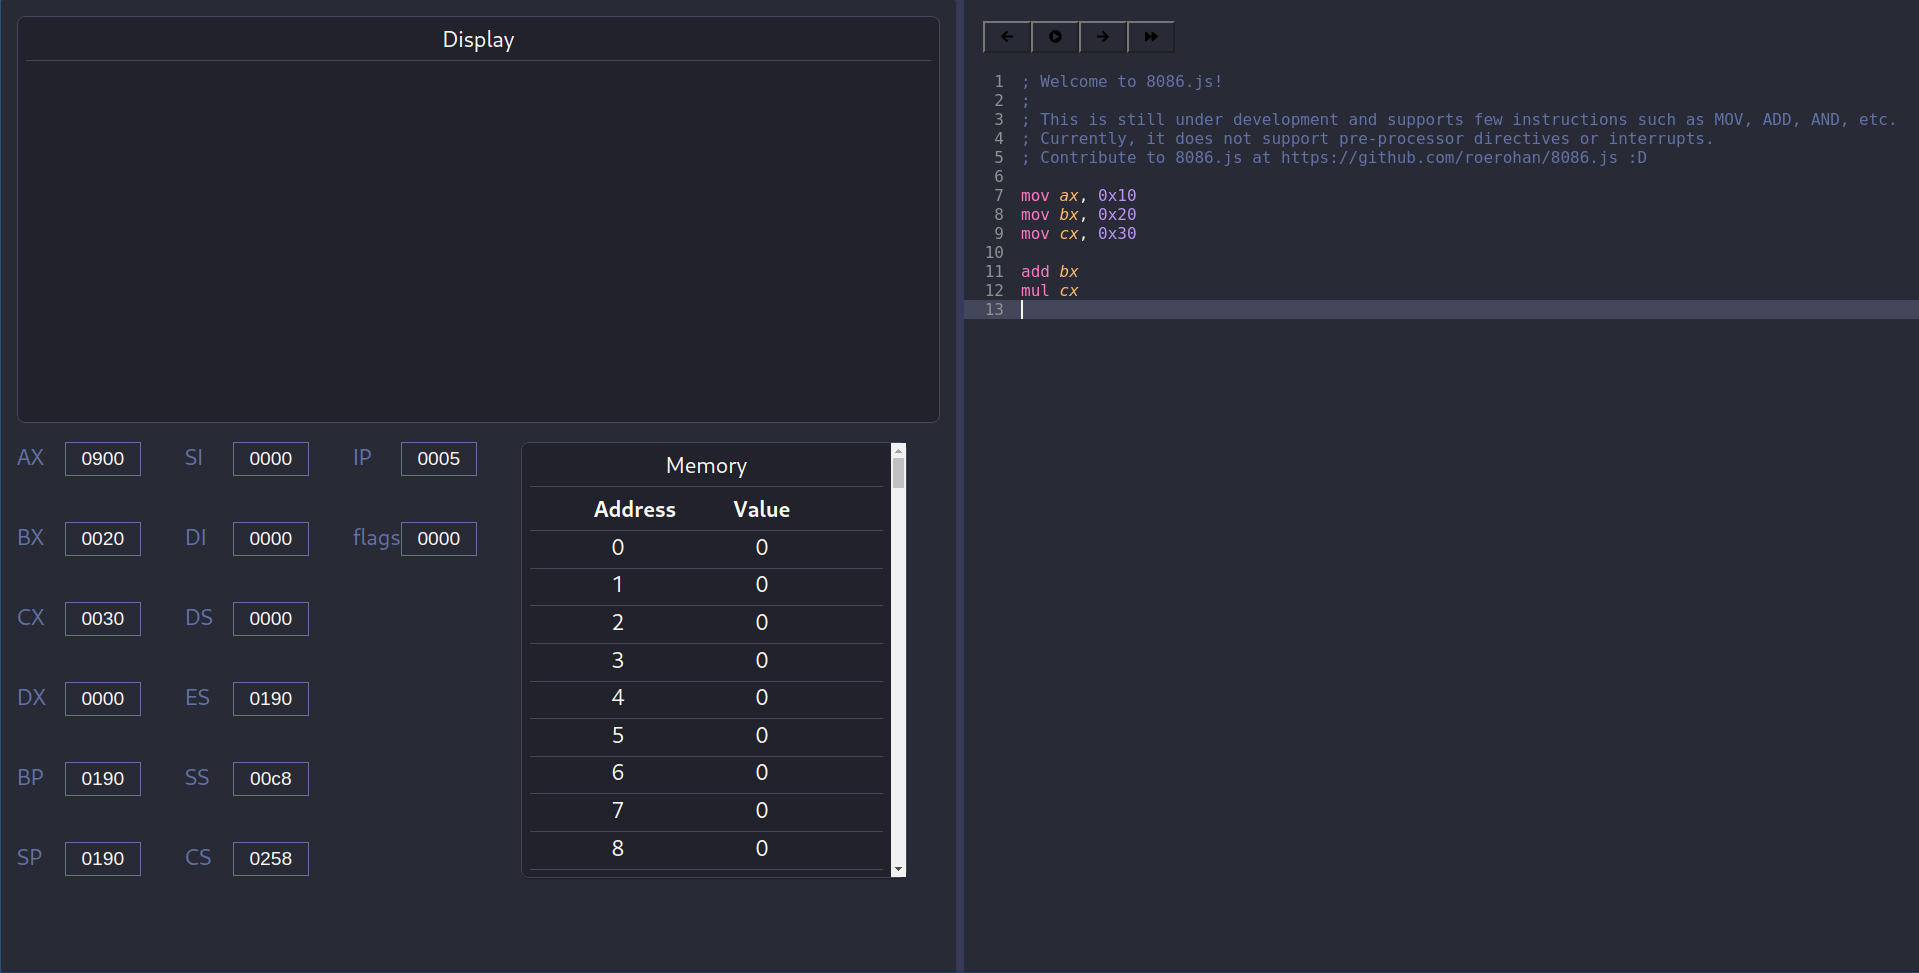
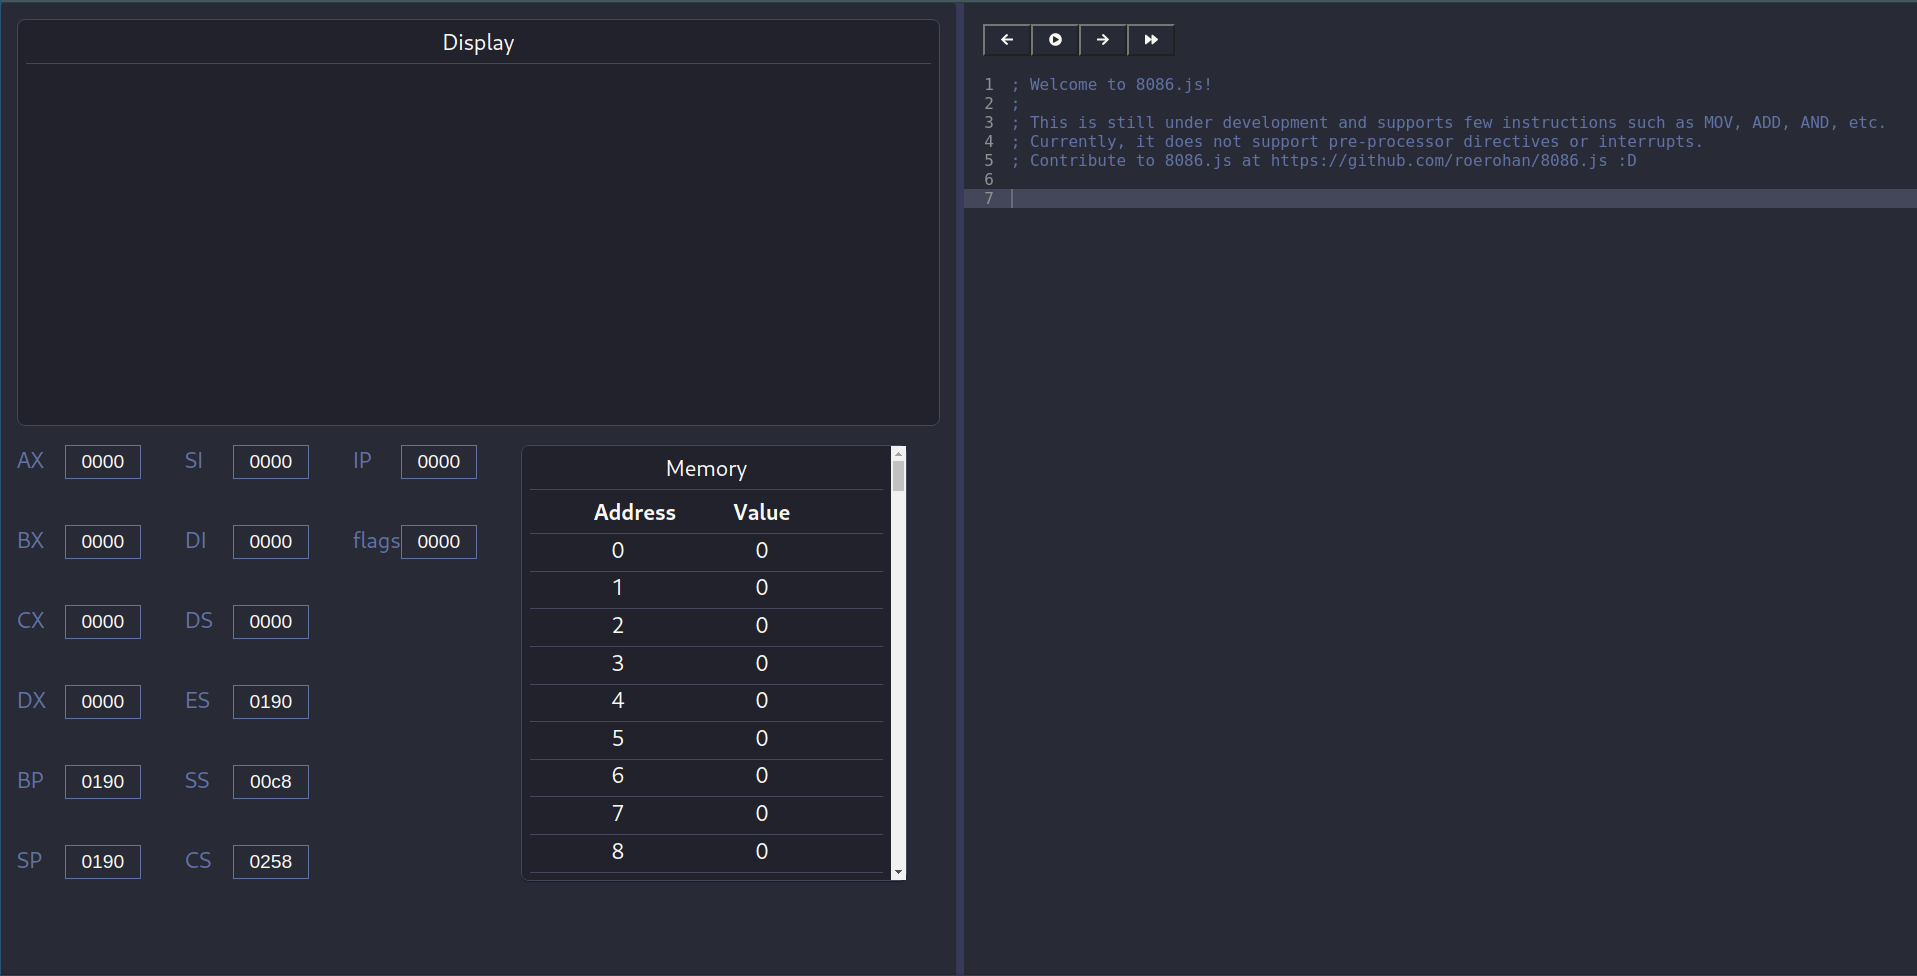
feat: Added tests and updated product image on README (#38)
* feat: Update 8086js image

* test: Adding tests for the Register component (#31)

* test: Adding tests for the Register component

* Use absolute imports

diff --git a/src/components/Register/Register.test.jsx b/src/components/Register/Register.test.jsx
@@ -1,0 +1,123 @@
+/* eslint-env jest */
+import React from 'react';
+import { cleanup, fireEvent, render } from '@testing-library/react';
+
+import { Provider } from 'react-redux';
+
+import emulator from 'emulator/emulator';
+import store from 'store/store';
+import Register from './index';
+
+const registerName = 'AX';
+const renderItem = ({ name = registerName, base = 16 } = {}) => {
+    const utils = render(
+        <Provider store={store}>
+            <Register name={name} base={base} />
+        </Provider>,
+    );
+    const input = utils.container.querySelector('input');
+
+    return {
+        input,
+        ...utils,
+    };
+};
+
+afterEach(() => {
+    const { regs } = emulator.cpu.registers;
+    Object.keys(regs).forEach((reg) => regs[reg].set(0));
+    cleanup();
+});
+
+test('it renders with four digits', () => {
+    const { input } = renderItem();
+
+    expect(input.value.length).toBe(4);
+});
+
+test('it accepts user input, displays as hex, but stores as decimal', () => {
+    const { input } = renderItem();
+
+    expect(input.value).toBe('0000');
+
+    fireEvent.change(input, { target: { value: 'ffff' } });
+    fireEvent.blur(input);
+
+    expect(input.value).toBe('ffff');
+    expect(emulator.cpu.registers.regs[registerName].value).toBe(65535);
+});
+
+test('it pads input with zeros', () => {
+    const { input } = renderItem();
+
+    expect(input.value).toBe('0000');
+
+    fireEvent.change(input, { target: { value: 'a' } });
+    fireEvent.blur(input);
+
+    expect(input.value).toBe('000a');
+    expect(emulator.cpu.registers.regs[registerName].value).toBe(10);
+});
+
+test('it does not accept invalid input', () => {
+    const { input } = renderItem();
+
+    expect(input.value).toBe('0000');
+
+    fireEvent.change(input, { target: { value: 'rwq' } });
+    fireEvent.blur(input);
+
+    expect(input.value).toBe('0000');
+    expect(emulator.cpu.registers.regs[registerName].value).toBe(0);
+});
+
+test('it does not allow the user to enter a value greater than 2^16', () => {
+    const { input } = renderItem();
+
+    expect(input.value).toBe('0000');
+
+    fireEvent.change(input, { target: { value: 'fffff' } });
+    fireEvent.blur(input);
+
+    expect(input.value).toBe('0000');
+    expect(emulator.cpu.registers.regs[registerName].value).toBe(0);
+});
+
+test('it renders numbers with a different base', () => {
+    const { input } = renderItem({ base: 2 });
+
+    expect(input.value).toBe('0000');
+
+    fireEvent.change(input, { target: { value: '11001' } });
+    fireEvent.blur(input);
+
+    expect(input.value).toBe('11001');
+    expect(emulator.cpu.registers.regs[registerName].value).toBe(25);
+});
+
+test('allows the user to clear the register while entering a value', () => {
+    const { input } = renderItem();
+
+    expect(input.value).toBe('0000');
+
+    fireEvent.change(input, { target: { value: '' } });
+
+    expect(input.value).toBe('');
+    expect(emulator.cpu.registers.regs[registerName].value).toBe(0);
+
+    // sets back to '0000' on blur if register is empty
+    fireEvent.blur(input);
+
+    expect(input.value).toBe('0000');
+    expect(emulator.cpu.registers.regs[registerName].value).toBe(0);
+
+    // sets a value after clearing the input
+    fireEvent.change(input, { target: { value: '' } });
+
+    expect(input.value).toBe('');
+    expect(emulator.cpu.registers.regs[registerName].value).toBe(0);
+
+    fireEvent.change(input, { target: { value: 'abcd' } });
+    fireEvent.blur(input);
+    expect(emulator.cpu.registers.regs[registerName].value).toBe(43981);
+});
